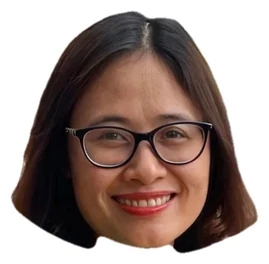
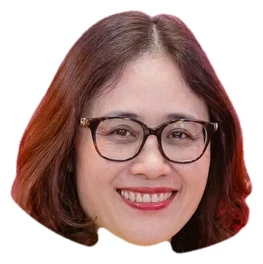
Vương miện kim loại có ánh sáng, bi tròn bóng, ngọc nhiều mặt; đổi ảnh chị Trần Thị Hạnh
Claude-Session: https://claude.ai/code/session_014NvTU2FGoSxuqwznEUZ16q

diff --git a/assets/stage3d.js b/assets/stage3d.js
@@ -164,23 +164,44 @@ var W20Stage3D = (function () {
     function crownTex() {
       if (CROWN) return CROWN;
       var c = document.createElement("canvas"); c.width = 512; c.height = 448; var g = c.getContext("2d");
-      var Y = "#f7c948", YD = "#e2a52e", PK = "#f06c80", PKD = "#d9546a";
       g.lineJoin = "round"; g.lineCap = "round";
-      /* thân vương miện (lớp sau, vàng đậm) */
+      function lin(x0, y0, x1, y1, st) { var l = g.createLinearGradient(x0, y0, x1, y1); st.forEach(function (q) { l.addColorStop(q[0], q[1]); }); return l; }
+      var GOLD = [[0, "#fff4bd"], [.22, "#f7d35f"], [.5, "#d89f2c"], [.74, "#f1c548"], [1, "#a8741a"]], GDK = [[0, "#d9a53a"], [.5, "#a8741a"], [1, "#6f470c"]];
+      function sphere(cx, cy, r, st) { /* viên bi bóng: ánh sáng từ trên-trái, điểm sáng nhỏ */
+        var rg = g.createRadialGradient(cx - r * .35, cy - r * .4, r * .08, cx, cy, r); st.forEach(function (q) { rg.addColorStop(q[0], q[1]); });
+        g.beginPath(); g.arc(cx, cy, r, 0, 6.283); g.fillStyle = rg; g.fill(); g.lineWidth = 2.2; g.strokeStyle = "rgba(90,55,8,.85)"; g.stroke();
+        g.beginPath(); g.ellipse(cx - r * .36, cy - r * .42, r * .24, r * .14, -.6, 0, 6.283); g.fillStyle = "rgba(255,255,255,.9)"; g.fill();
+      }
+      var BALL = [[0, "#fffbe2"], [.3, "#f8d96d"], [.7, "#d29a2a"], [1, "#8a5810"]], PEARL = [[0, "#ffffff"], [.5, "#f3ead8"], [1, "#b9a98a"]], RUBY = [[0, "#ffd3dc"], [.35, "#f0587a"], [.8, "#b5223f"], [1, "#7c1228"]];
+      /* lớp sau: thân tối có bóng đổ nhẹ */
       var P = [[60, 350], [66, 140], [108, 232], [150, 100], [205, 236], [256, 70], [307, 236], [362, 100], [405, 232], [446, 140], [452, 350]];
-      g.beginPath(); P.forEach(function (q, i) { i ? g.lineTo(q[0], q[1]) : g.moveTo(q[0], q[1]); }); g.closePath(); g.fillStyle = YD; g.fill(); g.strokeStyle = YD; g.lineWidth = 26; g.stroke();
-      /* lớp trước vàng sáng */
-      g.beginPath(); g.moveTo(70, 350); g.lineTo(78, 190); g.quadraticCurveTo(256, 100, 434, 190); g.lineTo(442, 350); g.closePath(); g.fillStyle = Y; g.fill(); g.strokeStyle = Y; g.lineWidth = 18; g.stroke();
-      /* viên bi tròn trên đầu nhọn */
-      [[66, 120, 27, Y], [150, 84, 27, YD], [256, 52, 37, Y], [362, 84, 27, YD], [446, 120, 27, Y]].forEach(function (b) { g.beginPath(); g.arc(b[0], b[1], b[2], 0, 6.283); g.fillStyle = b[3]; g.fill(); });
-      /* dải đế */
-      g.beginPath(); g.moveTo(76, 336); g.lineTo(436, 336); g.quadraticCurveTo(466, 336, 466, 366); g.lineTo(466, 380); g.quadraticCurveTo(466, 412, 436, 412); g.lineTo(76, 412); g.quadraticCurveTo(46, 412, 46, 380); g.lineTo(46, 366); g.quadraticCurveTo(46, 336, 76, 336); g.closePath(); g.fillStyle = Y; g.fill();
-      g.beginPath(); g.moveTo(52, 392); g.lineTo(460, 392); g.quadraticCurveTo(452, 412, 436, 412); g.lineTo(76, 412); g.quadraticCurveTo(60, 412, 52, 392); g.closePath(); g.fillStyle = YD; g.fill();
-      [100, 178, 256, 334, 412].forEach(function (x) { g.beginPath(); g.arc(x, 372, 11, 0, 6.283); g.fillStyle = PK; g.fill(); });
-      /* ngọc lục giác hồng ở giữa */
-      function hex(cx, cy, r, col) { g.beginPath(); for (var i = 0; i < 6; i++) { var a = Math.PI / 6 + i * Math.PI / 3; g.lineTo(cx + r * Math.cos(a), cy + r * Math.sin(a)); } g.closePath(); g.fillStyle = col; g.fill(); }
-      hex(256, 250, 44, PKD); hex(256, 250, 36, PK);
-      CROWN = new T.CanvasTexture(c); CROWN.encoding = T.sRGBEncoding; return CROWN;
+      g.save(); g.shadowColor = "rgba(60,30,0,.5)"; g.shadowBlur = 12; g.shadowOffsetY = 6;
+      g.beginPath(); P.forEach(function (q, i) { i ? g.lineTo(q[0], q[1]) : g.moveTo(q[0], q[1]); }); g.closePath(); g.fillStyle = lin(60, 70, 452, 350, GDK); g.fill(); g.strokeStyle = "#8a5a14"; g.lineWidth = 24; g.stroke(); g.restore();
+      /* lớp trước: vàng kim loại, viền sáng phía trên */
+      g.beginPath(); g.moveTo(70, 352); g.lineTo(78, 190); g.quadraticCurveTo(256, 98, 434, 190); g.lineTo(442, 352); g.closePath();
+      g.fillStyle = lin(70, 110, 442, 352, GOLD); g.fill(); g.strokeStyle = lin(70, 110, 442, 352, GOLD); g.lineWidth = 16; g.stroke();
+      g.beginPath(); g.moveTo(88, 196); g.quadraticCurveTo(256, 112, 424, 196); g.strokeStyle = "rgba(255,250,215,.85)"; g.lineWidth = 4; g.stroke();
+      g.beginPath(); g.moveTo(96, 300); g.quadraticCurveTo(256, 220, 416, 300); g.strokeStyle = "rgba(120,75,10,.35)"; g.lineWidth = 3; g.stroke();
+      /* hoa văn chạm khắc nhẹ */
+      [[150, 262], [362, 262]].forEach(function (q) { g.beginPath(); g.arc(q[0], q[1], 22, 0, 6.283); g.strokeStyle = "rgba(120,75,10,.45)"; g.lineWidth = 3; g.stroke(); g.beginPath(); g.arc(q[0], q[1], 9, 0, 6.283); g.fillStyle = "rgba(255,243,190,.55)"; g.fill(); });
+      /* bi tròn trên các đầu nhọn */
+      [[66, 120, 27], [150, 84, 27], [256, 52, 38], [362, 84, 27], [446, 120, 27]].forEach(function (b) { sphere(b[0], b[1], b[2], BALL); });
+      /* ngọc trai ở các khe */
+      [[108, 238, 12], [205, 242, 12], [307, 242, 12], [405, 238, 12]].forEach(function (q) { sphere(q[0], q[1], q[2], PEARL); });
+      /* dải đế kim loại */
+      var bp = function () { g.beginPath(); g.moveTo(76, 334); g.lineTo(436, 334); g.quadraticCurveTo(468, 334, 468, 366); g.lineTo(468, 382); g.quadraticCurveTo(468, 414, 436, 414); g.lineTo(76, 414); g.quadraticCurveTo(44, 414, 44, 382); g.lineTo(44, 366); g.quadraticCurveTo(44, 334, 76, 334); g.closePath(); };
+      bp(); g.fillStyle = lin(0, 334, 0, 414, [[0, "#fff0a8"], [.3, "#f3c84a"], [.62, "#d29a28"], [1, "#8f5c10"]]); g.fill(); g.strokeStyle = "#7a4d10"; g.lineWidth = 3; g.stroke();
+      g.beginPath(); g.moveTo(66, 344); g.lineTo(446, 344); g.strokeStyle = "rgba(255,252,220,.9)"; g.lineWidth = 3; g.stroke();
+      g.beginPath(); g.moveTo(60, 402); g.lineTo(452, 402); g.strokeStyle = "rgba(90,55,8,.45)"; g.lineWidth = 3; g.stroke();
+      [92, 174, 256, 338, 420].forEach(function (x) { sphere(x, 374, 17, BALL); sphere(x, 374, 10.5, RUBY); });
+      /* ngọc hồng lục giác nhiều mặt */
+      function hexPts(cx, cy, r) { var a = []; for (var i = 0; i < 6; i++) { var t = Math.PI / 6 + i * Math.PI / 3; a.push([cx + r * Math.cos(t), cy + r * Math.sin(t)]); } return a; }
+      var H0 = hexPts(256, 246, 56); g.beginPath(); H0.forEach(function (q, i) { i ? g.lineTo(q[0], q[1]) : g.moveTo(q[0], q[1]); }); g.closePath(); g.fillStyle = lin(200, 190, 312, 302, GOLD); g.fill(); g.strokeStyle = "#7a4d10"; g.lineWidth = 3; g.stroke();
+      var H1 = hexPts(256, 246, 43), fc = ["#ffb3c3", "#f0617f", "#c92c4b", "#ff8aa3", "#a8203f", "#f7728d"];
+      for (var i = 0; i < 6; i++) { g.beginPath(); g.moveTo(256, 246); g.lineTo(H1[i][0], H1[i][1]); g.lineTo(H1[(i + 1) % 6][0], H1[(i + 1) % 6][1]); g.closePath(); g.fillStyle = fc[i]; g.fill(); }
+      var H2 = hexPts(256, 246, 20); g.beginPath(); H2.forEach(function (q, i) { i ? g.lineTo(q[0], q[1]) : g.moveTo(q[0], q[1]); }); g.closePath(); g.fillStyle = "rgba(255,225,232,.55)"; g.fill();
+      g.beginPath(); g.moveTo(236, 224); g.lineTo(262, 218); g.lineTo(250, 238); g.closePath(); g.fillStyle = "rgba(255,255,255,.8)"; g.fill();
+      CROWN = new T.CanvasTexture(c); CROWN.encoding = T.sRGBEncoding; CROWN.anisotropy = 4; return CROWN;
     }
     function makeGirl(img, fb, pal) {
       var root = new T.Group(), body = new T.Group(); root.add(body);

diff --git a/admin.html b/admin.html
@@ -213,7 +213,7 @@ code{background:rgba(0,0,0,.25);border-radius:6px;padding:1px 6px;font-size:.92e
 <script src="assets/modules.js?v=20261090"></script>
 <script src="assets/stage.js?v=23"></script>
 <script src="assets/three.min.js?v=128"></script>
-<script src="assets/stage3d.js?v=64"></script>
+<script src="assets/stage3d.js?v=65"></script>
 <script>
 (function () {
   var $ = function (s) { return document.querySelector(s); };
